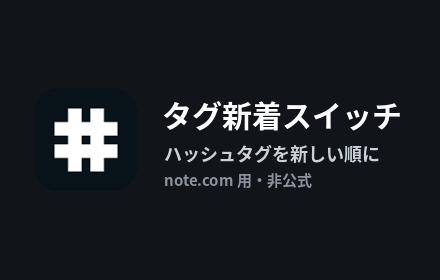
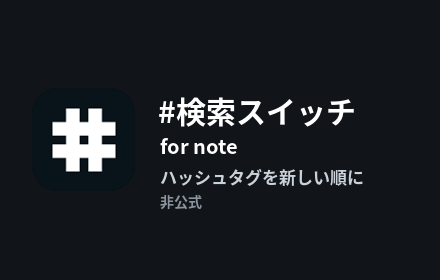
名前を「#検索スイッチ for note」に変え、スクリーンショットの他人の記事をぼかす

diff --git a/store/submission-form.md b/store/submission-form.md
@@ -5,8 +5,8 @@ Developer Dashboard のタブと欄の名前の順に並べています（参照
 アップロードするパッケージ: `/workspace/archives/dev/note-hashtag-search/store/note-hashtag-search-1.1.0.zip`
 
 拡張の名前と短い説明は、パッケージの `_locales/*/messages.json` から読み込まれます（ダッシュボードには入力欄がありません）。
-- ja: 名前「タグ新着スイッチ」／説明「note.com の検索欄に「#検索」スイッチを足し、ハッシュタグの記事を新しい順に一覧します。非公式の拡張です。」
-- en: Name "Tag Newest Switch" / Description "Adds a "#検索" switch to the note.com search box and lists hashtag posts newest first. Unofficial; not affiliated with note inc."
+- ja: 名前「#検索スイッチ for note」／説明「note.com の検索欄に「#検索」スイッチを足し、ハッシュタグの記事を新しい順に一覧します。非公式の拡張です。」
+- en: Name "#Search Switch for note" / Description "Adds a "#検索" switch to the note.com search box and lists hashtag posts newest first. Unofficial; not affiliated with note inc."
 
 ---
 

diff --git a/store/listing-ja.md b/store/listing-ja.md
@@ -1,7 +1,7 @@
 # Chrome ウェブストア掲載文（日本語）
 
 ## 名前
-タグ新着スイッチ
+#検索スイッチ for note
 
 ## 短い説明（132文字以内）
 note.com の検索欄に「#検索」スイッチを足し、ハッシュタグの記事を新しい順に一覧します。非公式の拡張です。

diff --git a/store/listing-en.md b/store/listing-en.md
@@ -1,7 +1,7 @@
 # Chrome Web Store listing (English)
 
 ## Name
-Tag Newest Switch
+#Search Switch for note
 
 ## Short description (max 132 chars)
 Adds a "#検索" switch to the note.com search box and lists hashtag posts newest first. Unofficial; not affiliated with note inc.

diff --git a/PRIVACY.md b/PRIVACY.md
@@ -1,6 +1,6 @@
 # プライバシーポリシー / Privacy Policy
 
-対象: タグ新着スイッチ（Tag Newest Switch）　最終更新: 2026-10-23
+対象: #検索スイッチ for note（#Search Switch for note）　最終更新: 2026-10-23
 
 ## 日本語
 
